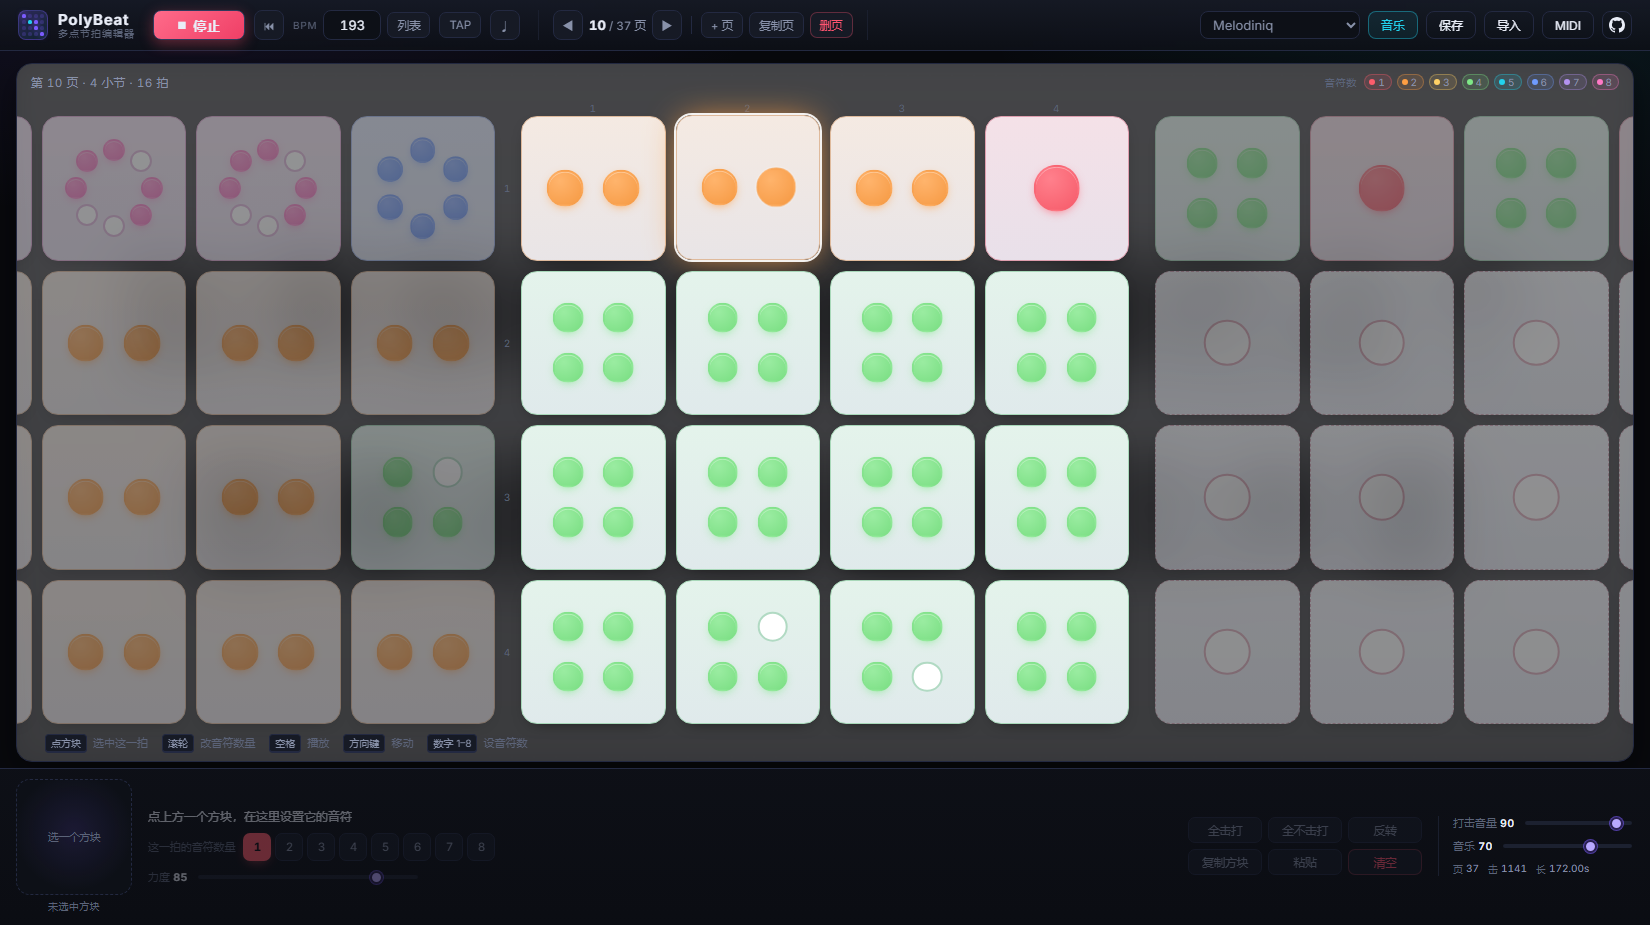
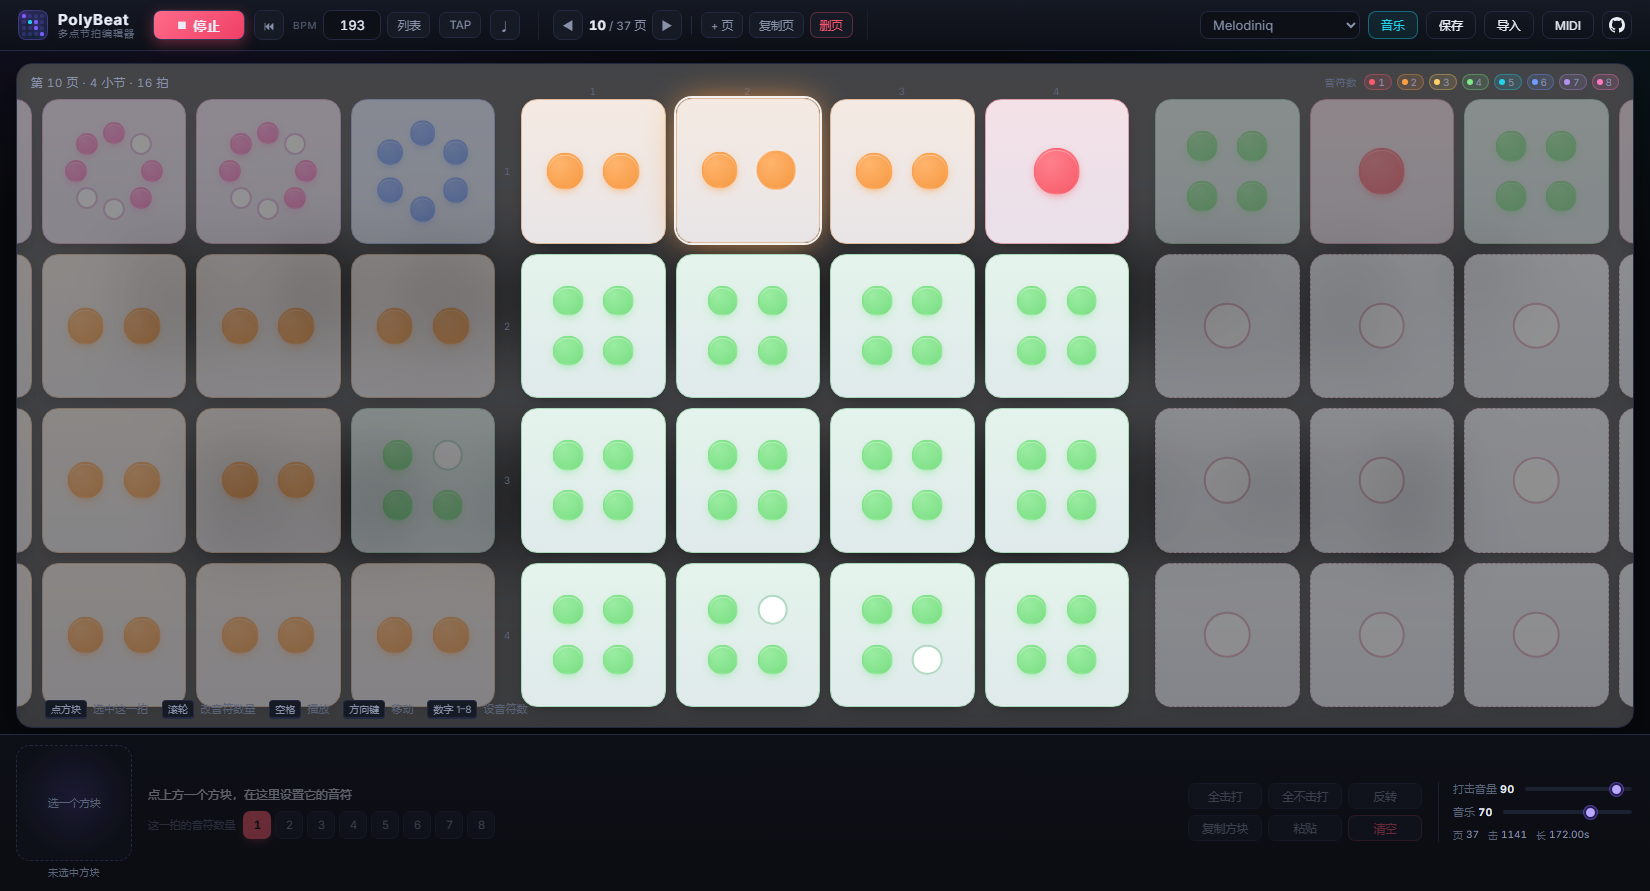
去掉逐拍力度：只保留全局打击音量

diff --git a/js/ui.js b/js/ui.js
@@ -36,8 +36,6 @@ const UI = (function () {
     el.edPos = document.getElementById('edPos');
     el.edBadge = document.getElementById('edBadge');
     el.countPicker = document.getElementById('countPicker');
-    el.insVel = document.getElementById('insVel');
-    el.insVelVal = document.getElementById('insVelVal');
     el.statPages = document.getElementById('statPages');
     el.statHits = document.getElementById('statHits');
     el.statDur = document.getElementById('statDur');
@@ -183,7 +181,7 @@ const UI = (function () {
     const page = Project.pageAt(pageIdx) || [];
     container.innerHTML = '';
     for (let i = 0; i < BLOCKS; i++) {
-      const blk = page[i] || { n: 1, on: [false], vel: 0.85 };
+      const blk = page[i] || { n: 1, on: [false] };
       const { card, stage } = makeCard(blk);
       fillDots(stage, blk);
       container.appendChild(card);
@@ -432,9 +430,6 @@ const UI = (function () {
     el.countPicker.querySelectorAll('.count-btn').forEach((b) => {
       b.classList.toggle('is-on', Number(b.dataset.n) === blk.n);
     });
-
-    el.insVel.value = String(Math.round(blk.vel * 100));
-    el.insVelVal.textContent = String(Math.round(blk.vel * 100));
   }
 
   function updateStats() {
@@ -685,7 +680,7 @@ const UI = (function () {
     if (!blk) return;
     const on = blk.on.some((v, s) => v && s < blk.n);
     if (!on) return;
-    Synth.preview(blk.vel * 0.9);
+    Synth.preview();
   }
 
   function bindEditor() {
@@ -708,14 +703,6 @@ const UI = (function () {
       Project.toggleSlot(i, Number(btn.dataset.s));
       const blk = Project.blockAt(Project.state.page, i);
       if (blk.on[Number(btn.dataset.s)]) previewBlock(i);
-    });
-
-    el.insVel.addEventListener('pointerdown', () => Project.pushUndo());
-    el.insVel.addEventListener('input', () => {
-      const i = Project.state.sel;
-      if (i == null) return;
-      Project.setVel(i, Number(el.insVel.value) / 100);
-      el.insVelVal.textContent = el.insVel.value;
     });
 
     const doFill = (mode) => () => {

diff --git a/js/state.js b/js/state.js
@@ -308,14 +308,6 @@ const Project = (function () {
     return changed;
   }
 
-  function setVel(i, v) {
-    const blk = blockAt(state.page, i);
-    if (!blk) return false;
-    blk.vel = clamp01(v);
-    emit('block', { p: state.page, i });
-    return true;
-  }
-
   function fillBlock(i, mode) {
     const blk = blockAt(state.page, i);
     if (!blk) return;
@@ -340,7 +332,6 @@ const Project = (function () {
     blk.inst = clipboard.inst;
     blk.n = clipboard.n;
     blk.on = clipboard.on.slice();
-    blk.vel = clipboard.vel;
     emit('block', { p: state.page, i, resized: true });
     return true;
   }
@@ -416,8 +407,7 @@ const Project = (function () {
     return {
       n,
       on: out,
-      vel: clamp01(raw.vel),
-    };
+      };
   }
 
   function sanitizeTempos(raw, beats) {
@@ -544,7 +534,7 @@ const Project = (function () {
     setTempo, removeTempo, setBpmAtBeat, parseTempoPos, formatTempoPos, clampBpm,
     countHits, countActiveBlocks,
     snapshot, pushUndo, canUndo, undo,
-    select, toggleSlot, setCount, setVel, fillBlock,
+    select, toggleSlot, setCount, fillBlock,
     copyBlock, pasteBlock, hasClipboard,
     gotoPage, addPage, dupPage, delPage,
     setBpm, setHitVolume,

diff --git a/js/data.js b/js/data.js
@@ -27,25 +27,24 @@ function clamp01(v) {
 }
 
 /* --------------------------------------------------------------------------
-   方块：{ n, on[], vel }
+   方块：{ n, on[] }
    n     这一拍分成几份（1–8）
    on    n 个布尔值，true = 击打
-   vel   这一拍的力度 0.05–1
    -------------------------------------------------------------------------- */
-function makeBlock(n, pattern, vel) {
+function makeBlock(n, pattern) {
   const count = Math.max(1, Math.min(MAX_SLOTS, n | 0 || 1));
   const on = [];
   for (let i = 0; i < count; i++) on.push(!!(pattern && pattern[i] === 'x'));
-  return { n: count, on, vel: clamp01(vel == null ? 0.85 : vel) };
+  return { n: count, on };
 }
 
 function emptyBlock() {
-  return makeBlock(1, '.', 0.85);
+  return makeBlock(1, '.');
 }
 
 /** 简写：b(2, 'x.') —— 一拍两音，只打前半 */
-function b(n, pattern, vel) {
-  return makeBlock(n, pattern, vel);
+function b(n, pattern) {
+  return makeBlock(n, pattern);
 }
 
 function blockHits(block) {

diff --git a/js/chart.js b/js/chart.js
@@ -191,7 +191,7 @@ const ChartImport = (function () {
 
   /**
    * 把松散的音符时间压成「每拍几个音符 + 哪些要击打」
-   * 返回 pages: [ [{n, on[], vel}] × 16 ] × N
+   * 返回 pages: [ [{n, on[]}] × 16 ] × N
    */
   function build(chart) {
     const sorted = chart.notes
@@ -238,7 +238,7 @@ const ChartImport = (function () {
         const beat = p * PAGE_BLOCKS + i;
         const offsets = buckets.get(beat);
         if (!offsets || !offsets.length) {
-          page.push({ n: 1, on: [false], vel: 0.85 });
+          page.push({ n: 1, on: [false] });
           continue;
         }
 
@@ -262,7 +262,7 @@ const ChartImport = (function () {
 
         const on = new Array(chosen.n).fill(false);
         chosen.slots.forEach((k) => { on[k] = true; });
-        page.push({ n: chosen.n, on, vel: 0.85 });
+        page.push({ n: chosen.n, on });
         usedSlots += chosen.slots.size;
         noteCount += chosen.slots.size;
       }

diff --git a/js/audio.js b/js/audio.js
@@ -93,15 +93,14 @@ const Synth = (function () {
     return loading;
   }
 
-  /** 排一次击打：time 是 AudioContext 时间 */
-  function play(time, vel) {
+  /** 排一次击打：time 是 AudioContext 时间（音量交给打击音总线） */
+  function play(time) {
     if (!ctx || !buffer) return false;
     const src = ctx.createBufferSource();
     src.buffer = buffer;
 
     const g = ctx.createGain();
-    const v = Math.max(0.02, Math.min(1, vel == null ? 0.85 : vel));
-    g.gain.value = v * 0.92;
+    g.gain.value = 0.85 * 0.92;
 
     src.connect(g);
     g.connect(hitBus);
@@ -204,8 +203,8 @@ const Synth = (function () {
     startMusic,
     stopMusic,
     setMusicVolume,
-    preview(vel) {
-      return load().then(() => play(ensure().currentTime + 0.01, vel));
+    preview() {
+      return load().then(() => play(ensure().currentTime + 0.01));
     },
     now() { return ctx ? ctx.currentTime : 0; },
     resume() {

diff --git a/js/midi.js b/js/midi.js
@@ -33,7 +33,7 @@ const MidiExport = (function () {
       page.forEach((blk, i) => {
         const beatTick = (p * BLOCKS + i) * PPQ;
         const slotTick = PPQ / blk.n;
-        const vel = Math.max(1, Math.min(127, Math.round(blk.vel * 127)));
+        const vel = 100;                 // 没有逐拍力度了，统一给个中等强度
         const len = Math.max(20, slotTick * 0.45);
 
         for (let s = 0; s < blk.n; s++) {

diff --git a/index.html b/index.html
@@ -113,13 +113,6 @@
         <div id="countPicker" class="count-picker"></div>
       </div>
     </div>
-
-    <div class="ed-line">
-      <div class="ed-field ed-grow">
-        <label for="insVel">力度 <b id="insVelVal">85</b></label>
-        <input id="insVel" type="range" min="10" max="100" step="1" value="85">
-      </div>
-    </div>
   </div>
 
   <div class="ed-actions">

diff --git a/js/app.js b/js/app.js
@@ -65,7 +65,7 @@
         for (let s = 0; s < blk.n; s++) {
           if (!blk.on[s]) continue;
           const at = t + Project.timeInBeat(segs, s / blk.n);
-          Synth.play(at, blk.vel);
+          Synth.play(at);
           Transport.events.push({ t: at, kind: 'slot', p: Math.floor(beat0 / Project.BLOCKS_PER_PAGE), i, s });
         }
       }

diff --git a/css/style.css b/css/style.css
@@ -557,8 +557,6 @@ input[type="range"]::-moz-range-thumb{
   white-space: nowrap;
 }
 .ed-field > label b{ color: var(--text); font-variant-numeric: tabular-nums; font-weight: 600; }
-.ed-grow{ flex: 0 1 auto; }
-.ed-grow input[type="range"]{ width: 220px; }
 
 .wide-select{
   height: 28px; padding: 0 8px; min-width: 96px;

diff --git a/README.md b/README.md
@@ -60,7 +60,7 @@ node tools/embed-hit.js
 | 下方「音符数量」1–8 | 直接设定数量，**新的音符默认全部击打**，再点掉不要的 |
 | 下方多边形里点圆点 | 切换这个点击打 / 不击打（圆点上的数字就是击打顺序） |
 | 「全击打 / 全不击打 / 反转」 | 一键处理这一拍 |
-| 「复制方块 / 粘贴」 | 把一整拍（数量 + 击打图样 + 力度）搬到别处 |
+| 「复制方块 / 粘贴」 | 把一整拍（数量 + 击打图样）搬到别处 |
 | 右上「+ 页 / 复制页 / 删页」「◀ ▶」 | 编辑和管理页面 |
 
 改音符数量时，新的 N 个音符**默认全部击打**，再逐个点掉不要的——这样先设数量、再减法，比从全空开始填快。
@@ -95,7 +95,7 @@ node tools/embed-hit.js
 - **音乐比谱面长的时候不会提前切回第一页**：谱面的最后一拍放完，播放会停在最后一页**走空拍**（标题显示「· 空拍中」、方块变淡、不再高亮，开了节拍器还能听到空拍），一直等到音乐放完才回到第一页重来。谱面比音乐长时则按谱面长度循环，不受影响。
 - 播放中翻页会立刻从新页开头接着播。
 - 正在响的方块有白色描边高亮，正在响的那一份音符会闪一下。
-- 击打时刻和力度都是准的，**没有随机抖动**：同一个 `hit.wav` 按谱面时间原样播放。
+- 击打时刻是准的，**没有随机抖动**：同一个 `hit.wav` 按谱面时间原样播放。
 
 ## 导入（工程 / 谱面 / PEZ / 音乐）
 
@@ -277,9 +277,9 @@ PolyBeat/
 
 **改点的排布或大小**：`js/data.js` 的 `dotLayout()`（返回每个点的 x/y 与直径，都是 0–1 的相对值）和 `DOT_SIZES`。
 
-**改力度曲线**：`js/audio.js` 的 `play()` 里 `g.gain.value = v * 0.92`。
+**改打击音的音量曲线**：`js/audio.js` 的 `play()` 里 `g.gain.value = 0.85 * 0.92`，再乘上打击音总线。
 
-**音量分三档**：`打击音量`（全局，只作用在 hit.wav 那条总线）→ `力度`（每一拍自己的强弱）→ `音乐`（只影响伴奏）。三者在 `js/audio.js` 里是三个独立的 GainNode，互不影响。
+**音量分两档**：`打击音量`（全局，只作用在 hit.wav 那条总线）和 `音乐`（只影响伴奏）。两者在 `js/audio.js` 里是独立的 GainNode，互不影响。
 
 **换打击音**：见上面「打击音」一节。
 
